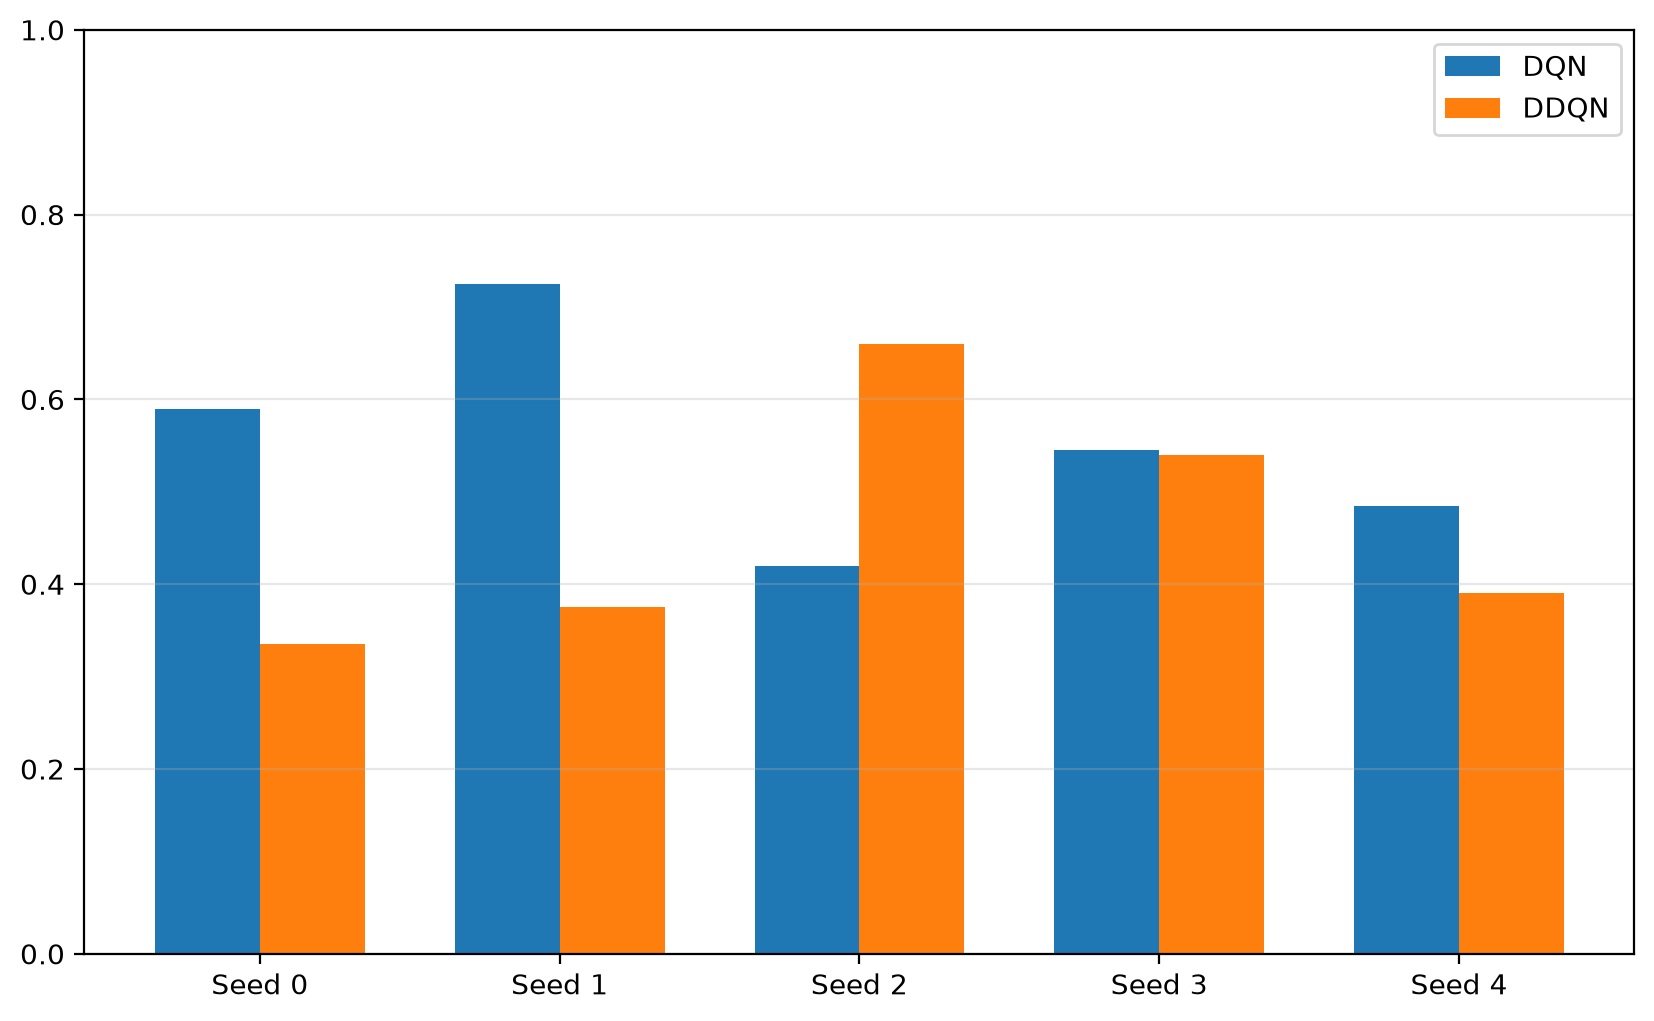
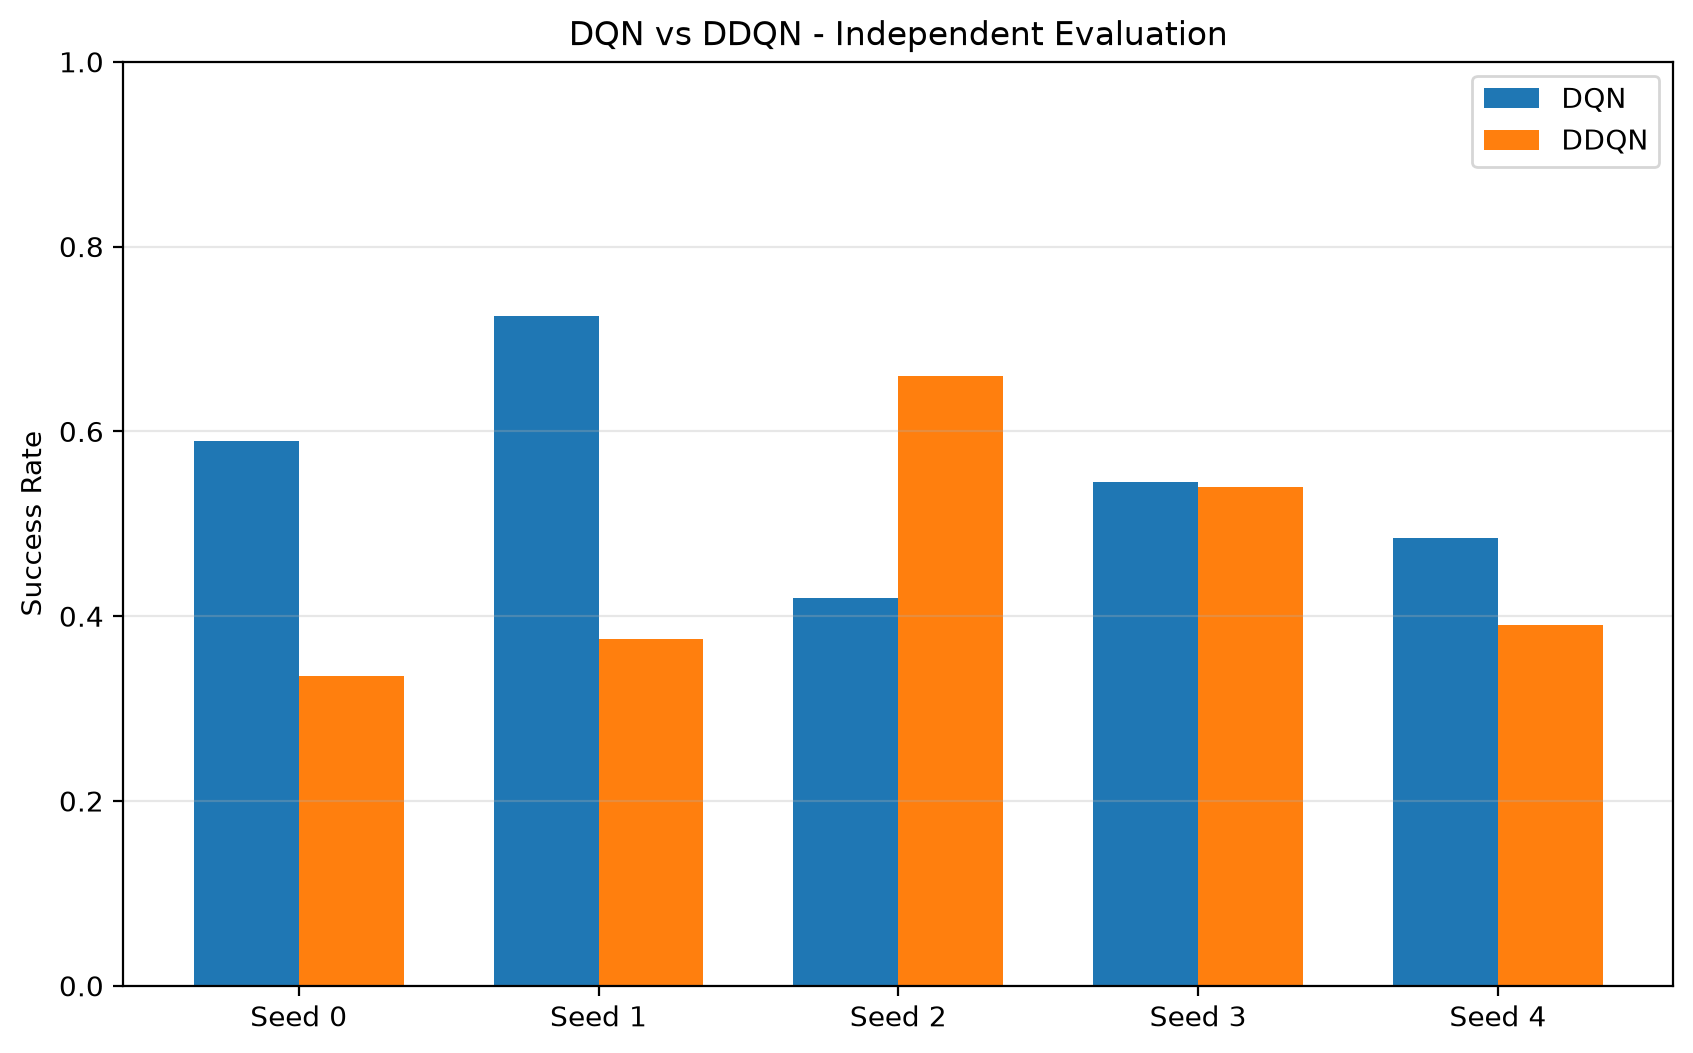
feat(analysis): implement and test maximum Q-value estimation

diff --git a/tests/test_max_q.py b/tests/test_max_q.py
@@ -1,0 +1,39 @@
+"""
+文件: tests/test_max_q.py
+用途: 验证最大 Q 值估计函数
+运行: python -m tests.test_max_q
+"""
+
+import torch
+from agents.ddqn import DDQNAgent
+from scripts.estimate_q_bias import compute_max_q
+
+
+def test_max_q():
+    torch.manual_seed(0)
+
+    agent = DDQNAgent()
+    states = torch.randn(200, 75)
+
+    max_q = compute_max_q(agent, states)
+
+    # 1. 输出形状
+    assert max_q.shape == (200,)
+
+    # 2. 所有预测值必须有限
+    assert torch.isfinite(max_q).all()
+
+    # 3. 不应该建立梯度计算图
+    assert not max_q.requires_grad
+
+    # 4. 验证计算值正确
+    with torch.no_grad():
+        expected = agent.online(states).max(dim=1).values
+
+    assert torch.allclose(max_q, expected)
+
+    print("test_max_q PASSED!")
+
+
+if __name__ == "__main__":
+    test_max_q()

diff --git a/scripts/compare_algorithms.py b/scripts/compare_algorithms.py
@@ -45,16 +45,19 @@ def compare_algorithms():
     # TODO 4:
     # 添加标题、坐标轴、图例
     # 保存图片
+    plt.title("DQN vs DDQN - Independent Evaluation")
     plt.xticks(
         x, [f"Seed {i}" for i in range(5)]
     )  # xticks = X-axis Ticks，意思是 X 轴刻度。
     plt.ylim(0, 1)  # ylim = Y-axis Limits，意思是 Y 轴显示范围。
+    plt.ylabel("Success Rate")
     plt.legend()
     plt.grid(
         axis="y", alpha=0.3
     )  # 这里的 axis="y" 表示只显示 Y 轴刻度对应的网格线，也就是水平网格线。
     Path("figures").mkdir(exist_ok=True)
     plt.savefig("figures/dqn_vs_ddqn_final_eval.png", dpi=200, bbox_inches="tight")
+
     plt.show()
 
 

diff --git a/scripts/estimate_q_bias.py b/scripts/estimate_q_bias.py
@@ -1,0 +1,28 @@
+"""
+文件: scripts/estimate_q_bias.py
+用途: 计算神经网络预测的最大 Q 值
+运行: python -m scripts.estimate_q_bias
+"""
+
+import torch
+
+
+@torch.no_grad()
+def compute_max_q(agent, states):
+    """
+    states: (batch_size, 75)
+    返回:   (batch_size,)
+    """
+
+    # TODO 1:
+    # 调用 agent.online(states)
+    # 得到所有动作的 Q 值
+    q_values = agent.online(states)
+
+    # TODO 2:
+    # 对动作维度取最大值
+    max_q = q_values.max(dim=1).values
+
+    # TODO 3:
+    # 返回每个状态的最大 Q 值
+    return max_q

diff --git a/README.md b/README.md
@@ -1051,10 +1051,46 @@ Avg Steps:    94.88 ± 21.94
 (deep-learning) jaden@Macbook-Pro ddqn-maze %
 ```
 
-下一步：绘制 DQN vs DDQN A/B 对照图
+### 实践 19.4：DQN vs DDQN 独立评估对照图
+
+绘制 DQN vs DDQN A/B 对照图
 新建 scripts/compare_algorithms.py，完成三个小任务：
 1. 读取两个 CSV，分别提取五个 Seed 的成功率。
 2. 使用 plt.bar() 绘制分组柱状图，比较同一 Seed 下的 DQN 与 DDQN。
 3. 保存到 figures/dqn_vs_ddqn_success_rate.png。
 
 ![](/figures/dqn_vs_ddqn_final_eval.png)
+
+### 实践 20：Q 值高估偏差 Δ
+课程设计第 7.3 节 · 作业原文要求
+
+这一步将进入课程设计最重要的算法分析部分之一。
+
+我们需要比较：
+\[
+\Delta(s)=\max_a Q_\theta(s,a)-\hat V_{\mathrm{MC}}(s)
+\]
+
+其中：
+- \(\max_a Q_\theta(s,a)\)：神经网络认为当前状态最优动作的 Q 值。
+- \(\hat V_{\mathrm{MC}}(s)\)：从同一环境状态出发，执行当前贪心策略，通过多次 Monte Carlo Rollout 估计的回报。
+- \(\Delta(s)\)：网络预测与实际采样回报之间的差值。
+注意，这里的 MC 估计是当前策略的价值估计，不是真正的最优 \(Q^*\)。因此，应把 Δ 称作相对于 MC 策略回报的估计偏差，正的 Δ 是高估的证据，但不能直接等同于严格意义上的最优 Q 值高估。
+
+#### 20.1 计算网络预测的最大 Q 值
+
+当前步骤
+
+目标文件：scripts/estimate_q_bias.py
+
+输入一批局部观测，得到每个观测的最大预测 Q 值，验证输出形状和数值。
+
+![](/doc/img/20.1.png)
+
+#### 20.2 计算 Monte Carlo 回报
+
+从相同的完整环境状态出发，进行 30 次贪心 Rollout，估计实际折扣回报。
+
+#### 20.3 计算并比较 Δ
+
+在 200 个采样环境状态上比较 DQN 与 DDQN，并整理统计结果与图表。
